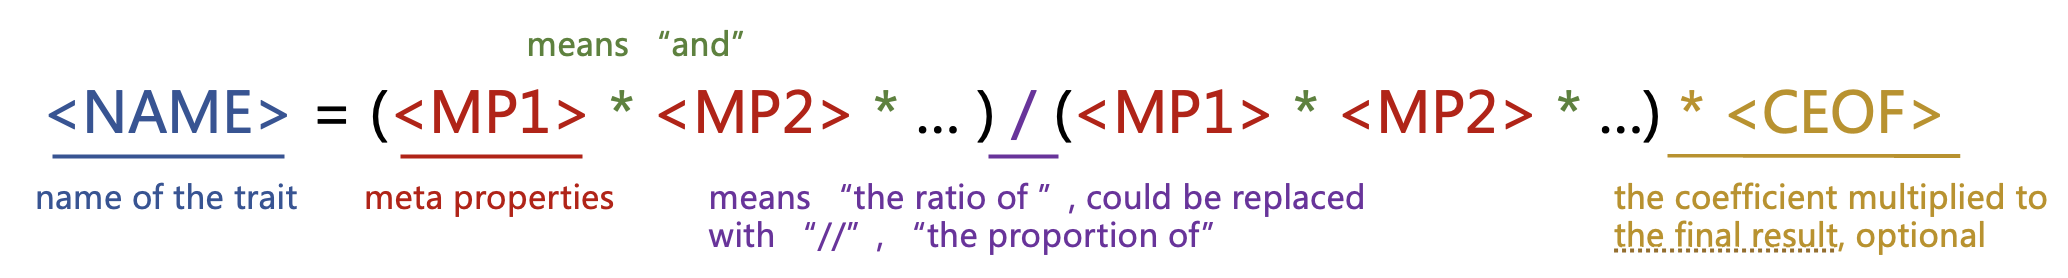
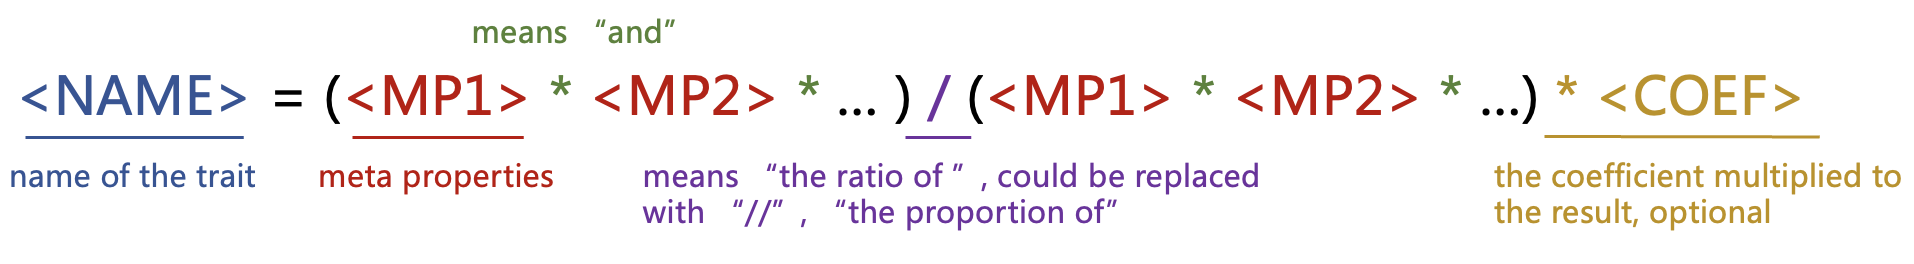
Update README.md.
- Rename "hypothesis testing" to "univariate analysis".
- Fix a type in formula.png.

diff --git a/README.md b/README.md
@@ -23,8 +23,8 @@ traits merely from abundance information and glycan structures.
     - [Built-in database](#built-in-database)
     - [Preprocessing](#preprocessing)
     - [Sialic-acid-linkage traits](#sialic-acid-linkage-traits)
-    - [Filtering](#filtering)
-    - [Hypothesis testing](#hypothesis-testing)
+    - [Post-filter](#post-filtering)
+    - [Univariate analysis](#univariate-analysis)
     - [The GlyTrait Formula](#the-glytrait-formula-advanced)
 - [License](#license)
 
@@ -302,9 +302,9 @@ these traits by default. If you want to keep these traits, use the "--no-filter"
 glytrait data.csv --no-filter
 ```
 
-### Hypothesis testing
+### Univariate analysis
 
-GlyTrait supports hypothesis testing for direct and derived traits. To use this feature, you need
+GlyTrait supports univariate analysis for direct and derived traits. To use this feature, you need
 to provide a csv file containing the sample grouping information. The csv file should have two
 columns, the first column is the sample name, and the second column is the group name. An example
 group file would be like:
